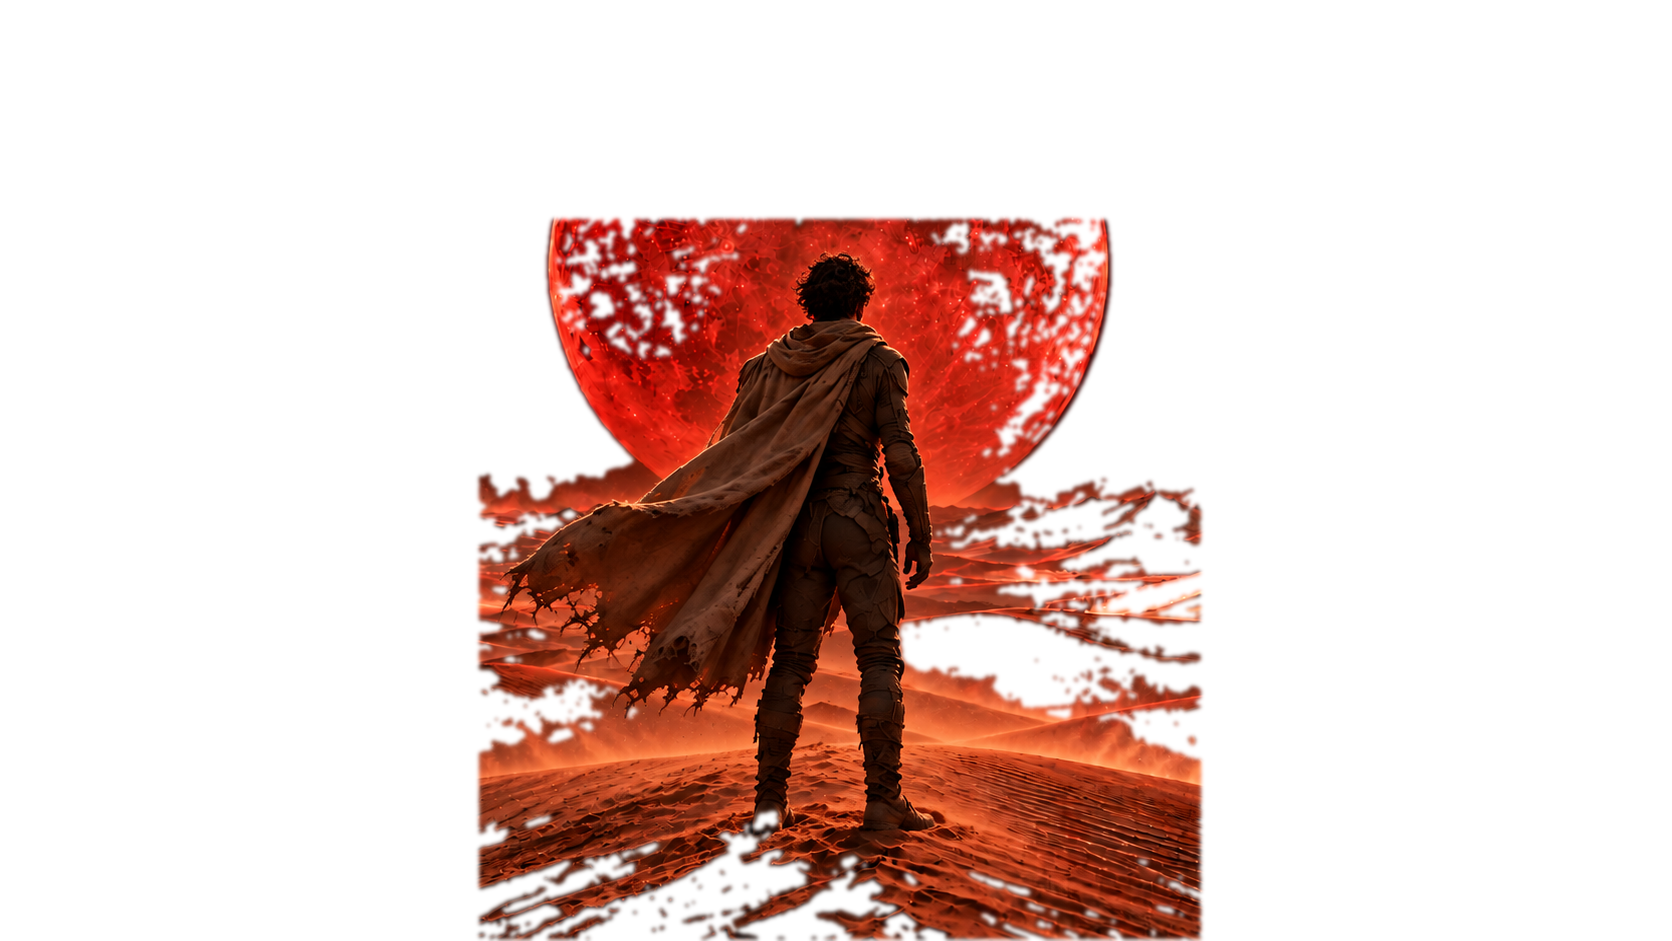
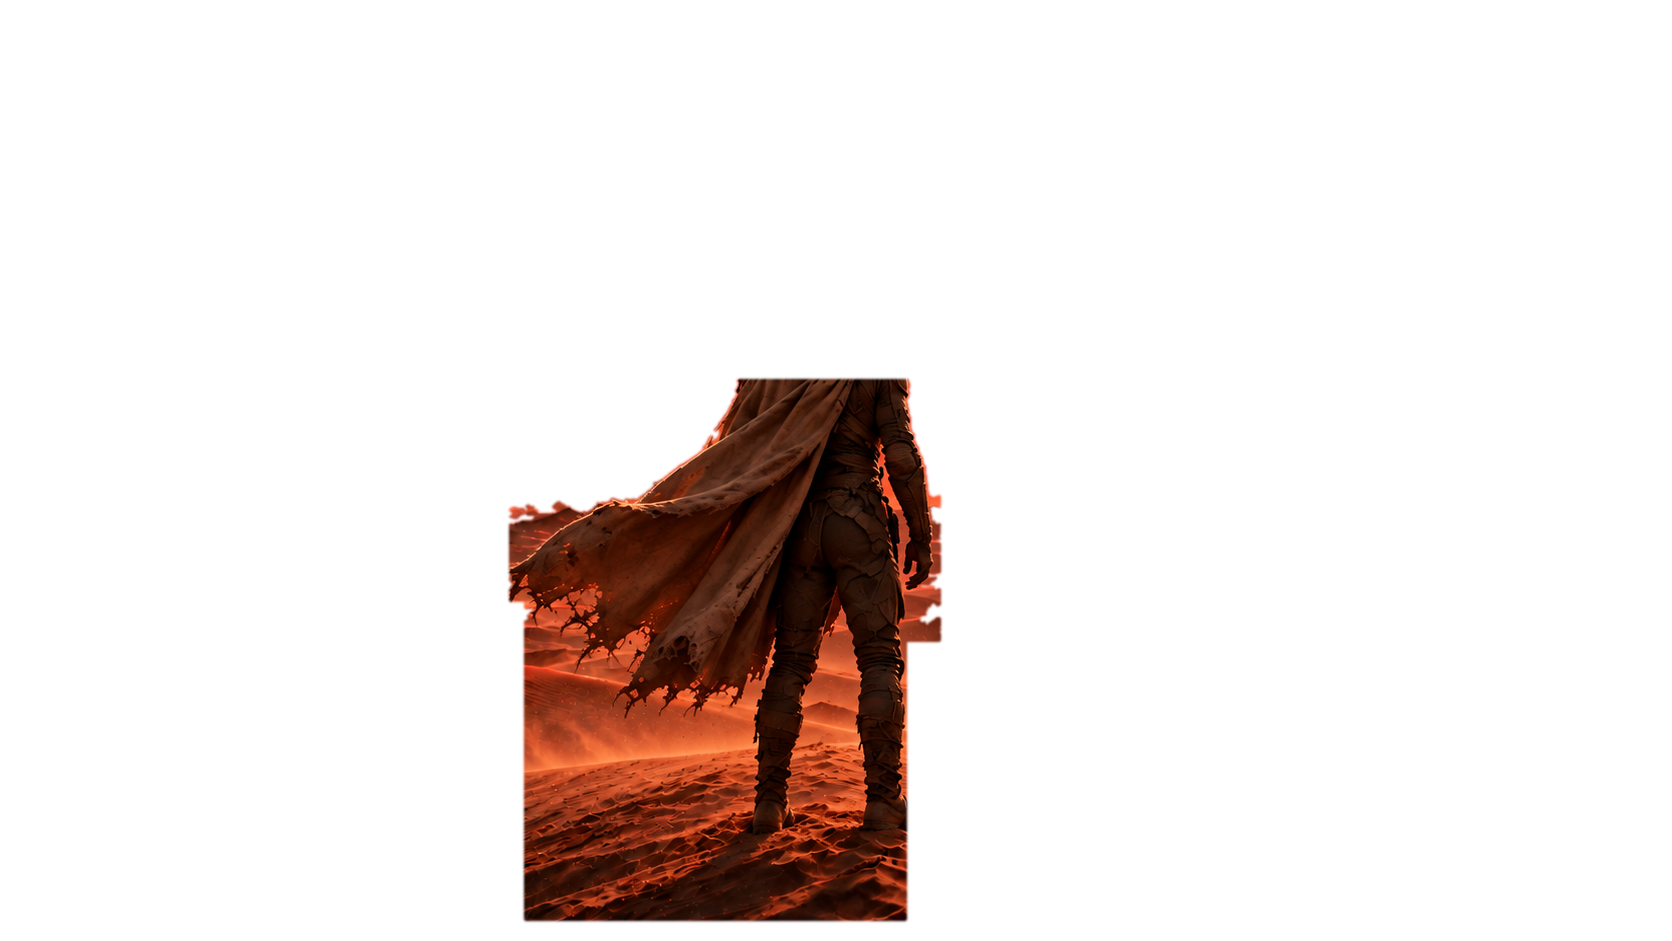
fix(ambassador): isolate character completely to eliminate moon tearing and double-moon transition artifacts

Changed region(s): [[0.2799, 0.2157, 0.7464, 1.0]]

diff --git a/src/components/ambassador/ambassador-hero.tsx b/src/components/ambassador/ambassador-hero.tsx
@@ -10,25 +10,32 @@ export function AmbassadorHero() {
 
   const mouseX = useMotionValue(0);
   const mouseY = useMotionValue(0);
-  const springX = useSpring(mouseX, { stiffness: 45, damping: 25 });
-  const springY = useSpring(mouseY, { stiffness: 45, damping: 25 });
+  const springX = useSpring(mouseX, { stiffness: 40, damping: 25 });
+  const springY = useSpring(mouseY, { stiffness: 40, damping: 25 });
 
+  // Parallax on scroll
   const { scrollYProgress } = useScroll({
     target: containerRef,
     offset: ["start start", "end start"],
   });
 
-  const moonScale = useTransform(scrollYProgress, [0, 0.6], [1, 1.25]);
-  const moonY = useTransform(scrollYProgress, [0, 0.6], [0, -40]);
-  const characterScrollY = useTransform(scrollYProgress, [0, 0.6], [0, 30]);
+  const moonScale = useTransform(scrollYProgress, [0, 0.6], [1, 1.2]);
+  const moonY = useTransform(scrollYProgress, [0, 0.6], [0, -35]);
+  const characterScrollY = useTransform(scrollYProgress, [0, 0.6], [0, 25]);
   const overlayOpacity = useTransform(scrollYProgress, [0.25, 0.65], [0, 0.85]);
-  const titleY = useTransform(scrollYProgress, [0, 0.5], [0, -60]);
+  const titleY = useTransform(scrollYProgress, [0, 0.5], [0, -50]);
+
+  // Character slight parallax against background
+  const charSpringX = useTransform(springX, (v) => v * 1.35);
 
   useEffect(() => {
     setMounted(true);
-    // Sequence: Moon lands -> Character rises -> Final lock & text reveal
-    const t1 = setTimeout(() => setPhase("character"), 500);
-    const t2 = setTimeout(() => setPhase("ready"), 1900);
+    // Smooth cinematic sequence:
+    // 0ms: Moon background displays crisp and majestic
+    // 400ms: Character rises smoothly from below
+    // 1700ms: Titles and CTA unlock
+    const t1 = setTimeout(() => setPhase("character"), 400);
+    const t2 = setTimeout(() => setPhase("ready"), 1700);
     return () => {
       clearTimeout(t1);
       clearTimeout(t2);
@@ -39,8 +46,8 @@ export function AmbassadorHero() {
     const handleMove = (e: MouseEvent) => {
       if (!containerRef.current) return;
       const rect = containerRef.current.getBoundingClientRect();
-      const x = ((e.clientX - rect.left) / rect.width - 0.5) * 16;
-      const y = ((e.clientY - rect.top) / rect.height - 0.5) * 10;
+      const x = ((e.clientX - rect.left) / rect.width - 0.5) * 14;
+      const y = ((e.clientY - rect.top) / rect.height - 0.5) * 8;
       mouseX.set(x);
       mouseY.set(y);
     };
@@ -53,76 +60,60 @@ export function AmbassadorHero() {
       ref={containerRef}
       className="relative w-full h-[100dvh] min-h-[640px] overflow-hidden bg-[#050101] select-none"
     >
-      {/* Layer 1: Crimson Desert & Blood Moon (Static Base) */}
+      {/* Layer 1: Crimson Desert & Blood Moon (Static Majestic Background) */}
       <motion.div
         className="absolute inset-0 z-0"
         style={{ scale: moonScale, y: moonY, x: springX }}
       >
         <motion.img
           src="/images/redmoon1.png"
-          alt="Crimson Moon Arrakis"
+          alt="TechSrijan Crimson Moon"
           className="absolute inset-0 w-full h-full object-cover object-center"
-          initial={{ opacity: 0, scale: 1.12 }}
+          initial={{ opacity: 0, scale: 1.08 }}
           animate={{ opacity: 1, scale: 1 }}
-          transition={{ duration: 1.6, ease: [0.16, 1, 0.3, 1] }}
+          transition={{ duration: 1.5, ease: [0.16, 1, 0.3, 1] }}
           draggable={false}
           priority-component="true"
         />
       </motion.div>
 
-      {/* Layer 2: Atmospheric Red Mist & Eclipse Glow */}
-      <div className="absolute inset-0 z-[1] bg-gradient-to-t from-black/90 via-transparent to-black/50 pointer-events-none" />
-      <div className="absolute top-1/3 left-1/2 -translate-x-1/2 -translate-y-1/2 w-[500px] sm:w-[800px] h-[500px] sm:h-[800px] rounded-full bg-red-600/15 blur-[120px] pointer-events-none" />
+      {/* Layer 2: Subtle Atmospheric Red Mist & Glow Behind Character */}
+      <div className="absolute inset-0 z-[1] bg-gradient-to-t from-black/80 via-transparent to-black/40 pointer-events-none" />
+      <div className="absolute top-[38%] left-1/2 -translate-x-1/2 -translate-y-1/2 w-[450px] sm:w-[700px] h-[450px] sm:h-[700px] rounded-full bg-red-600/10 blur-[140px] pointer-events-none" />
 
-      {/* Layer 3A: Character Spawning Upward (Isolated cutout rising from below) */}
+      {/* Layer 3: Character Spawning Upward (ONLY the character figure with zero moon or sky) */}
       <motion.div
         className="absolute inset-0 z-[2] flex items-end justify-center pointer-events-none"
-        style={{ y: characterScrollY }}
+        style={{ y: characterScrollY, x: charSpringX }}
       >
         <motion.img
           src="/images/ambassador-character.png"
-          alt="TechSrijan Ambassador"
+          alt="TechSrijan Ambassador Character"
           className="w-full h-full object-cover object-bottom"
-          initial={{ y: "45%", opacity: 0, scale: 1.08 }}
+          initial={{ y: "30%", opacity: 0 }}
           animate={
             phase !== "moon"
-              ? { y: "0%", opacity: 1, scale: 1 }
-              : { y: "45%", opacity: 0, scale: 1.08 }
+              ? { y: "0%", opacity: 1 }
+              : { y: "30%", opacity: 0 }
           }
           transition={{
-            duration: 1.5,
+            duration: 1.4,
             ease: [0.16, 1, 0.3, 1],
           }}
           draggable={false}
         />
       </motion.div>
 
-      {/* Layer 3B: Seamless Final Composite (redmoon2 with full ground shadow & lighting locks in) */}
-      <motion.div
-        className="absolute inset-0 z-[3] flex items-end justify-center pointer-events-none"
-        style={{ y: characterScrollY }}
-        initial={{ opacity: 0 }}
-        animate={{ opacity: phase === "ready" ? 1 : 0 }}
-        transition={{ duration: 0.8, ease: "easeOut" }}
-      >
-        <img
-          src="/images/redmoon2.png"
-          alt=""
-          className="w-full h-full object-cover object-bottom"
-          draggable={false}
-        />
-      </motion.div>
+      {/* Layer 4: Deep ground fade for readability and seamless floor blend */}
+      <div className="absolute inset-x-0 bottom-0 h-[60%] sm:h-[50%] z-[3] bg-gradient-to-t from-black via-black/75 to-transparent pointer-events-none" />
 
-      {/* Layer 4: Deep vignette & floor darkness for text readability */}
-      <div className="absolute inset-x-0 bottom-0 h-[65%] sm:h-[55%] z-[4] bg-gradient-to-t from-black via-black/75 to-transparent pointer-events-none" />
-
-      {/* Layer 5: Floating Sand Embers (Client-rendered only to prevent hydration mismatch) */}
+      {/* Layer 5: Floating Sand Embers (Client-rendered only) */}
       {mounted && (
-        <div className="absolute inset-0 z-[5] pointer-events-none overflow-hidden">
-          {Array.from({ length: 24 }).map((_, i) => {
+        <div className="absolute inset-0 z-[4] pointer-events-none overflow-hidden">
+          {Array.from({ length: 22 }).map((_, i) => {
             const size = (i % 3) + 2;
-            const left = (i * 4.2 + (i % 5) * 3) % 100;
-            const top = (i * 7.1 + 20) % 95;
+            const left = (i * 4.4 + (i % 5) * 3) % 100;
+            const top = (i * 6.8 + 22) % 94;
             return (
               <motion.div
                 key={i}
@@ -139,14 +130,14 @@ export function AmbassadorHero() {
                   boxShadow: "0 0 6px rgba(239, 68, 68, 0.8)",
                 }}
                 animate={{
-                  y: [0, -35 - (i % 20), 0],
-                  x: [0, (i % 2 === 0 ? 12 : -12), 0],
-                  opacity: [0.2, 0.85, 0.2],
+                  y: [0, -32 - (i % 18), 0],
+                  x: [0, i % 2 === 0 ? 10 : -10, 0],
+                  opacity: [0.2, 0.8, 0.2],
                 }}
                 transition={{
-                  duration: 4 + (i % 4),
+                  duration: 4.5 + (i % 3),
                   repeat: Infinity,
-                  delay: (i * 0.25) % 3,
+                  delay: (i * 0.3) % 3,
                   ease: "easeInOut",
                 }}
               />
@@ -157,7 +148,7 @@ export function AmbassadorHero() {
 
       {/* Layer 6: Hero Content & Typography */}
       <motion.div
-        className="absolute inset-0 z-[6] flex flex-col items-center justify-end pb-[7vh] sm:pb-[9vh] px-4 text-center pointer-events-none"
+        className="absolute inset-0 z-[5] flex flex-col items-center justify-end pb-[7vh] sm:pb-[9vh] px-4 text-center pointer-events-none"
         style={{ y: titleY }}
       >
         {/* Monogram tag */}
@@ -247,7 +238,7 @@ export function AmbassadorHero() {
 
       {/* Layer 7: Scroll-driven fade into content */}
       <motion.div
-        className="absolute inset-0 z-[7] bg-black pointer-events-none"
+        className="absolute inset-0 z-[6] bg-black pointer-events-none"
         style={{ opacity: overlayOpacity }}
       />
     </section>
